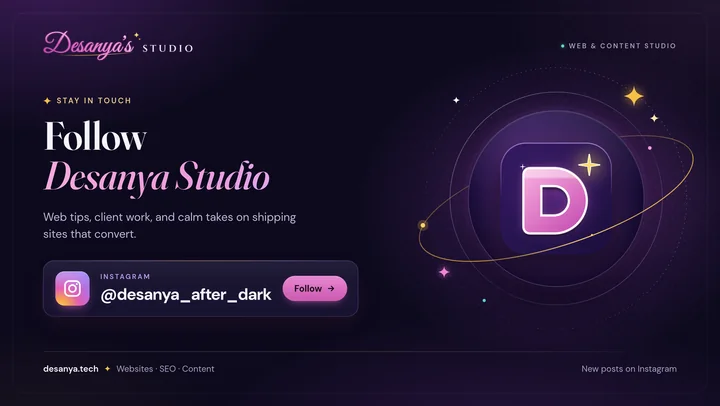
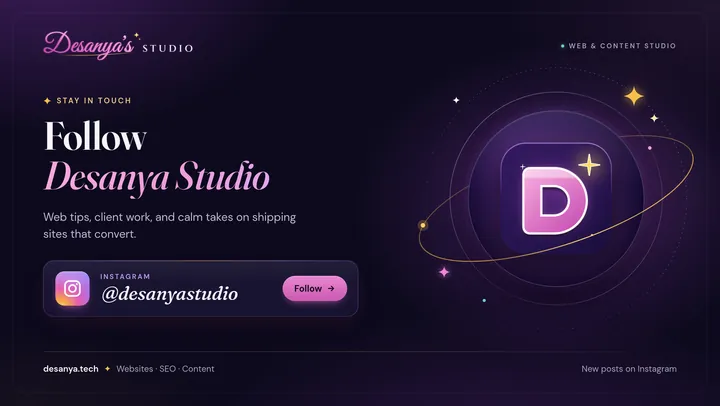
Point Instagram links to @desanyastudio.
The studio handle moved from @desanya_after_dark. Footer, phone menu, follow buttons, schema, and the follow graphic now use the new profile.

Changed region(s): [[0.1222, 0.7094, 0.3972, 0.7685]]

diff --git a/index.html b/index.html
@@ -57,7 +57,7 @@
   "description": "Desanya Studio builds clean websites, SEO & Google visibility, and content that converts — for tech talent and small businesses who want clarity over theater.",
   "sameAs": [
     "https://www.facebook.com/profile.php?id=61594838174588",
-    "https://www.instagram.com/desanya_after_dark/",
+    "https://www.instagram.com/desanyastudio/",
     "https://www.tiktok.com/@desanyastudio",
     "https://www.youtube.com/@DesanyaStudio"
   ],
@@ -952,12 +952,12 @@
           <p class="eyebrow">Stay in touch</p>
           <h2 id="follow-heading">Follow Desanya Studio</h2>
           <p>Web tips, client work, and calm takes on shipping sites that convert. New posts on Instagram.</p>
-          <a class="btn btn-primary" href="https://www.instagram.com/desanya_after_dark/" target="_blank" rel="noopener noreferrer">Follow @desanya_after_dark <span aria-hidden="true">↗</span><span class="visually-hidden"> (opens in a new tab)</span></a>
+          <a class="btn btn-primary" href="https://www.instagram.com/desanyastudio/" target="_blank" rel="noopener noreferrer">Follow @desanyastudio <span aria-hidden="true">↗</span><span class="visually-hidden"> (opens in a new tab)</span></a>
         </div>
-        <a class="follow-figure" href="https://www.instagram.com/desanya_after_dark/" target="_blank" rel="noopener noreferrer">
+        <a class="follow-figure" href="https://www.instagram.com/desanyastudio/" target="_blank" rel="noopener noreferrer">
           <picture>
-            <source type="image/webp" srcset="assets/follow-desanya-studio-720.webp 720w, assets/follow-desanya-studio.webp?v=2 1600w" sizes="(max-width: 820px) 92vw, 560px">
-            <img src="assets/follow-desanya-studio.jpg?v=2" alt="Follow Desanya Studio on Instagram, @desanya_after_dark" width="1600" height="900" loading="lazy">
+            <source type="image/webp" srcset="assets/follow-desanya-studio-720.webp?v=3 720w, assets/follow-desanya-studio.webp?v=3 1600w" sizes="(max-width: 820px) 92vw, 560px">
+            <img src="assets/follow-desanya-studio.jpg?v=3" alt="Follow Desanya Studio on Instagram, @desanyastudio" width="1600" height="900" loading="lazy">
           </picture>
         </a>
       </div>
@@ -1262,7 +1262,7 @@
     </div>
   </div>
 
-  <script src="site.js?v=14" defer></script>
+  <script src="site.js?v=15" defer></script>
   <script>
     window.addEventListener('load', function () {
       var s = document.createElement('script');

diff --git a/contact.html b/contact.html
@@ -57,7 +57,7 @@
   "description": "Desanya Studio builds clean websites, SEO & Google visibility, and content that converts — for tech talent and small businesses who want clarity over theater.",
   "sameAs": [
     "https://www.facebook.com/profile.php?id=61594838174588",
-    "https://www.instagram.com/desanya_after_dark/",
+    "https://www.instagram.com/desanyastudio/",
     "https://www.tiktok.com/@desanyastudio",
     "https://www.youtube.com/@DesanyaStudio"
   ],
@@ -963,10 +963,10 @@
             <a class="text-link" href="index.html#review">Review us <span aria-hidden="true">→</span></a>
           </section>
 
-          <a class="contact-follow" href="https://www.instagram.com/desanya_after_dark/" target="_blank" rel="noopener noreferrer">
+          <a class="contact-follow" href="https://www.instagram.com/desanyastudio/" target="_blank" rel="noopener noreferrer">
             <picture>
-              <source srcset="assets/follow-desanya-studio.webp?v=2" type="image/webp">
-              <img src="assets/follow-desanya-studio.jpg?v=2" alt="Follow Desanya Studio on Instagram, @desanya_after_dark" width="1600" height="900" loading="lazy">
+              <source srcset="assets/follow-desanya-studio.webp?v=3" type="image/webp">
+              <img src="assets/follow-desanya-studio.jpg?v=3" alt="Follow Desanya Studio on Instagram, @desanyastudio" width="1600" height="900" loading="lazy">
             </picture>
           </a>
 
@@ -1198,7 +1198,7 @@
     </div>
   </div>
 
-  <script src="site.js?v=14" defer></script>
+  <script src="site.js?v=15" defer></script>
   <script>
     window.addEventListener('load', function () {
       var s = document.createElement('script');

diff --git a/site.js b/site.js
@@ -9,7 +9,7 @@
  *
  * TODO: social
  *   Paste full https profile URLs for Desanya Studio. Leave '' to hide that icon.
- *   Instagram is https://www.instagram.com/desanya_after_dark/ (@desanya_after_dark).
+ *   Instagram is https://www.instagram.com/desanyastudio/ (@desanyastudio).
  *   Facebook is https://www.facebook.com/profile.php?id=61594838174588.
  *   TikTok is https://www.tiktok.com/@desanyastudio (@desanyastudio).
  *   X, Threads, and LinkedIn stay hidden until a URL is pasted here.
@@ -21,7 +21,7 @@ var DESANYA_LINKS = {
   googleReviewUrl: 'https://www.google.com/maps/search/?api=1&query=Desanya%27s+Web+Designs+Niota+TN&query_place_id=605467311094588',
   social: {
     facebook: 'https://www.facebook.com/profile.php?id=61594838174588',
-    instagram: 'https://www.instagram.com/desanya_after_dark/',
+    instagram: 'https://www.instagram.com/desanyastudio/',
     linkedin: '',
     threads: '',
     tiktok: 'https://www.tiktok.com/@desanyastudio',

diff --git a/blog/google-business-profile-free-tool/index.html b/blog/google-business-profile-free-tool/index.html
@@ -57,7 +57,7 @@
   "description": "Desanya Studio builds clean websites, SEO & Google visibility, and content that converts — for tech talent and small businesses who want clarity over theater.",
   "sameAs": [
     "https://www.facebook.com/profile.php?id=61594838174588",
-    "https://www.instagram.com/desanya_after_dark/",
+    "https://www.instagram.com/desanyastudio/",
     "https://www.tiktok.com/@desanyastudio",
     "https://www.youtube.com/@DesanyaStudio"
   ],
@@ -1044,7 +1044,7 @@
     </div>
   </div>
 
-  <script src="/site.js?v=14" defer></script>
+  <script src="/site.js?v=15" defer></script>
   <script>
     window.addEventListener('load', function () {
       var s = document.createElement('script');

diff --git a/blog/index.html b/blog/index.html
@@ -57,7 +57,7 @@
   "description": "Desanya Studio builds clean websites, SEO & Google visibility, and content that converts — for tech talent and small businesses who want clarity over theater.",
   "sameAs": [
     "https://www.facebook.com/profile.php?id=61594838174588",
-    "https://www.instagram.com/desanya_after_dark/",
+    "https://www.instagram.com/desanyastudio/",
     "https://www.tiktok.com/@desanyastudio",
     "https://www.youtube.com/@DesanyaStudio"
   ],
@@ -1109,7 +1109,7 @@
     </div>
   </div>
 
-  <script src="/site.js?v=14" defer></script>
+  <script src="/site.js?v=15" defer></script>
   <script>
     window.addEventListener('load', function () {
       var s = document.createElement('script');

diff --git a/blog/seo-basics-east-tennessee/index.html b/blog/seo-basics-east-tennessee/index.html
@@ -57,7 +57,7 @@
   "description": "Desanya Studio builds clean websites, SEO & Google visibility, and content that converts — for tech talent and small businesses who want clarity over theater.",
   "sameAs": [
     "https://www.facebook.com/profile.php?id=61594838174588",
-    "https://www.instagram.com/desanya_after_dark/",
+    "https://www.instagram.com/desanyastudio/",
     "https://www.tiktok.com/@desanyastudio",
     "https://www.youtube.com/@DesanyaStudio"
   ],
@@ -1035,7 +1035,7 @@
     </div>
   </div>
 
-  <script src="/site.js?v=14" defer></script>
+  <script src="/site.js?v=15" defer></script>
   <script>
     window.addEventListener('load', function () {
       var s = document.createElement('script');

diff --git a/blog/why-your-small-business-needs-a-real-website/index.html b/blog/why-your-small-business-needs-a-real-website/index.html
@@ -57,7 +57,7 @@
   "description": "Desanya Studio builds clean websites, SEO & Google visibility, and content that converts — for tech talent and small businesses who want clarity over theater.",
   "sameAs": [
     "https://www.facebook.com/profile.php?id=61594838174588",
-    "https://www.instagram.com/desanya_after_dark/",
+    "https://www.instagram.com/desanyastudio/",
     "https://www.tiktok.com/@desanyastudio",
     "https://www.youtube.com/@DesanyaStudio"
   ],
@@ -1037,7 +1037,7 @@
     </div>
   </div>
 
-  <script src="/site.js?v=14" defer></script>
+  <script src="/site.js?v=15" defer></script>
   <script>
     window.addEventListener('load', function () {
       var s = document.createElement('script');

diff --git a/blog/writing-website-copy-that-converts/index.html b/blog/writing-website-copy-that-converts/index.html
@@ -57,7 +57,7 @@
   "description": "Desanya Studio builds clean websites, SEO & Google visibility, and content that converts — for tech talent and small businesses who want clarity over theater.",
   "sameAs": [
     "https://www.facebook.com/profile.php?id=61594838174588",
-    "https://www.instagram.com/desanya_after_dark/",
+    "https://www.instagram.com/desanyastudio/",
     "https://www.tiktok.com/@desanyastudio",
     "https://www.youtube.com/@DesanyaStudio"
   ],
@@ -1042,7 +1042,7 @@
     </div>
   </div>
 
-  <script src="/site.js?v=14" defer></script>
+  <script src="/site.js?v=15" defer></script>
   <script>
     window.addEventListener('load', function () {
       var s = document.createElement('script');

diff --git a/404.html b/404.html
@@ -52,7 +52,7 @@
   "description": "Desanya Studio builds clean websites, SEO & Google visibility, and content that converts — for tech talent and small businesses who want clarity over theater.",
   "sameAs": [
     "https://www.facebook.com/profile.php?id=61594838174588",
-    "https://www.instagram.com/desanya_after_dark/",
+    "https://www.instagram.com/desanyastudio/",
     "https://www.tiktok.com/@desanyastudio",
     "https://www.youtube.com/@DesanyaStudio"
   ],
@@ -951,7 +951,7 @@
     </div>
   </div>
 
-  <script src="/site.js?v=14" defer></script>
+  <script src="/site.js?v=15" defer></script>
   <script>
     window.addEventListener('load', function () {
       var s = document.createElement('script');

diff --git a/ai-for-small-business.html b/ai-for-small-business.html
@@ -57,7 +57,7 @@
   "description": "Desanya Studio builds clean websites, SEO & Google visibility, and content that converts — for tech talent and small businesses who want clarity over theater.",
   "sameAs": [
     "https://www.facebook.com/profile.php?id=61594838174588",
-    "https://www.instagram.com/desanya_after_dark/",
+    "https://www.instagram.com/desanyastudio/",
     "https://www.tiktok.com/@desanyastudio",
     "https://www.youtube.com/@DesanyaStudio"
   ],
@@ -1151,7 +1151,7 @@
     </div>
   </div>
 
-  <script src="site.js?v=14" defer></script>
+  <script src="site.js?v=15" defer></script>
   <script>
     window.addEventListener('load', function () {
       var s = document.createElement('script');

diff --git a/gallery.html b/gallery.html
@@ -57,7 +57,7 @@
   "description": "Desanya Studio builds clean websites, SEO & Google visibility, and content that converts — for tech talent and small businesses who want clarity over theater.",
   "sameAs": [
     "https://www.facebook.com/profile.php?id=61594838174588",
-    "https://www.instagram.com/desanya_after_dark/",
+    "https://www.instagram.com/desanyastudio/",
     "https://www.tiktok.com/@desanyastudio",
     "https://www.youtube.com/@DesanyaStudio"
   ],
@@ -1651,7 +1651,7 @@
     </div>
   </div>
 
-  <script src="site.js?v=14" defer></script>
+  <script src="site.js?v=15" defer></script>
   <script>
     window.addEventListener('load', function () {
       var s = document.createElement('script');

diff --git a/knoxville-web-design.html b/knoxville-web-design.html
@@ -57,7 +57,7 @@
   "description": "Desanya Studio builds clean websites, SEO & Google visibility, and content that converts — for tech talent and small businesses who want clarity over theater.",
   "sameAs": [
     "https://www.facebook.com/profile.php?id=61594838174588",
-    "https://www.instagram.com/desanya_after_dark/",
+    "https://www.instagram.com/desanyastudio/",
     "https://www.tiktok.com/@desanyastudio",
     "https://www.youtube.com/@DesanyaStudio"
   ],
@@ -1100,7 +1100,7 @@
     </div>
   </div>
 
-  <script src="site.js?v=14" defer></script>
+  <script src="site.js?v=15" defer></script>
   <script>
     window.addEventListener('load', function () {
       var s = document.createElement('script');
